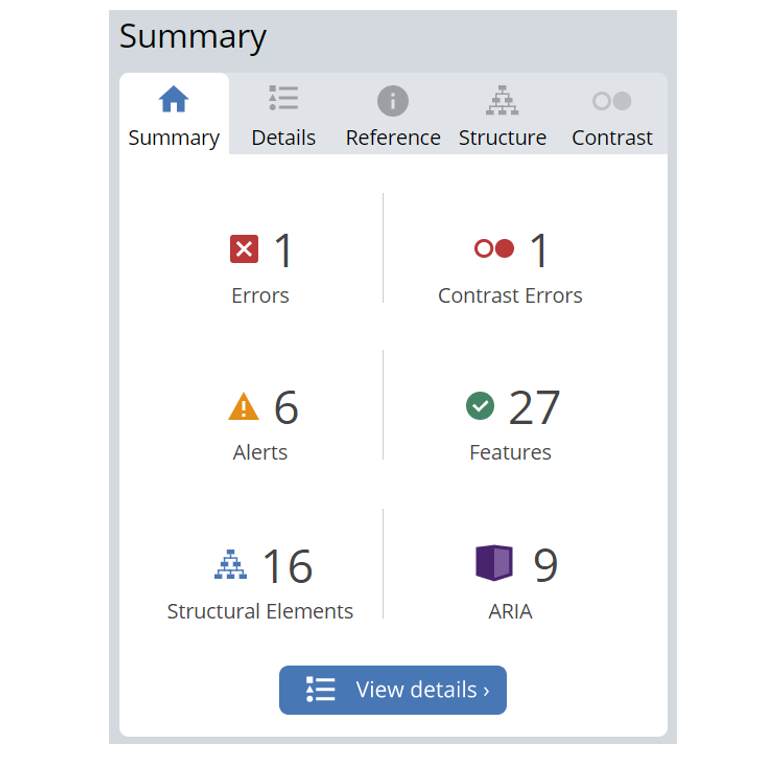
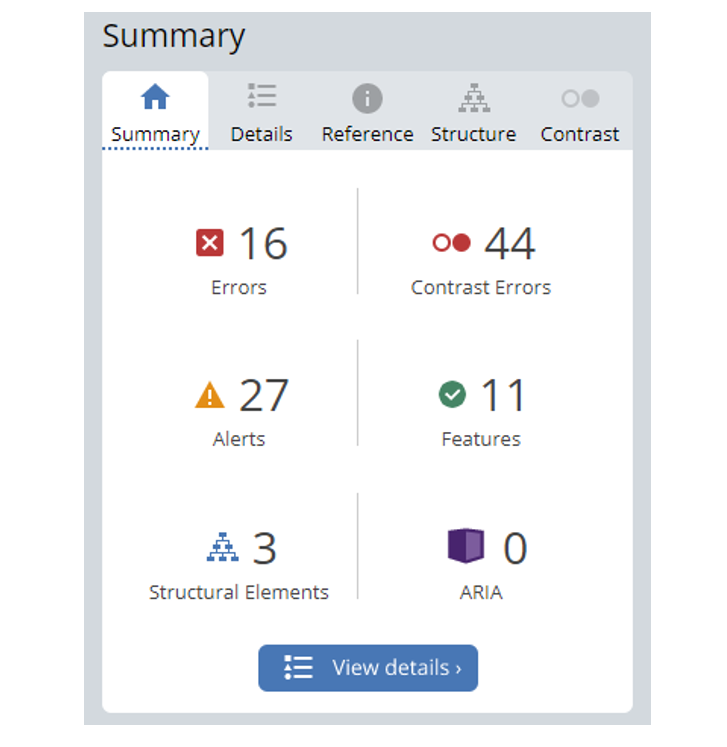
done

diff --git a/home.html b/home.html
@@ -80,9 +80,9 @@
             <br>
             <p>There are no significant accessbility concerns found, except for:</p>
             <ul style="margin-left: 1.2vw;">
-              <li>The <strong>low contrast between text and background colors</strong> is the biggest accessibility issue, with 44 related errors identified. </li>
-              <li>There are a few redundant links and text on the website which raise alerts.</li>
-              <li>Some of the images are missing alternative text and language is not specified for the page. </li>
+              <li>low contrast between text and background colors</li>
+              <li>redundant links and text on the website which raise alerts</li>
+              <li>missing alternative text for some of the images</li>
             </ul>
             <br>
             <p>I then use <strong>JAWS Screen Reading Software</strong> to further assess the menu page. The screen reader is able to recognize a few headings but the 
@@ -222,13 +222,12 @@
       </div>
 
       <div class="row justify-content-center section-content">
-        <p>I have tested my redesigned website with Chrome Responsive Tool and confirmed that it <b>works with any screen size on any device</b>. 
-          My redesigned website also works with any font size, including 150% font size on the tablet screen. All font and image sizes, paddings and margins 
-          adjust accordingly to fit different screen size, and the same level of eligiblity of information is preserved. I tried <b>WebAIM WAVE</b> on different screen sizes and 
-          there are much fewer accessbility concerns compared to the original website. The only error is due to the responsiveness design of the navigation bar where the 
-          Andino's logo is in the middle when the screen width is at least 992px and on the leftmost otherwise. Thus, there is a hidden logo in the top-left corner. The 
-          only contrast error is due to the "LUNCH" menu button. After playing around with the transparency 
-          and contrast of the background color yet getting unsatisfactory outcomes, I decided to keep it as it is to match the color scheme.</p>
+        <p>I tested my redesigned website with Chrome Responsive Tool and confirmed that it <b>works well with all screen sizes</b>. 
+           All font and image sizes, paddings and margins adjust accordingly to fit different screen size, and the same level of eligiblity of information is preserved. 
+           I tried <b>WebAIM WAVE</b> on different screen sizes and there are only two accessbility concerns. One is due to the responsiveness design of the navigation 
+           bar where the Andino's logo is in the middle when the screen width is at least 992px and on the leftmost otherwise. Thus, there is a hidden logo in the top-left corner. The 
+           other is a conntrast error in the "LUNCH" menu button. After playing around with the transparency and contrast of the background color yet getting unsatisfactory outcomes, 
+           I decided to keep it as it is to match the color scheme.</p>
       </div>
     </div>
 
